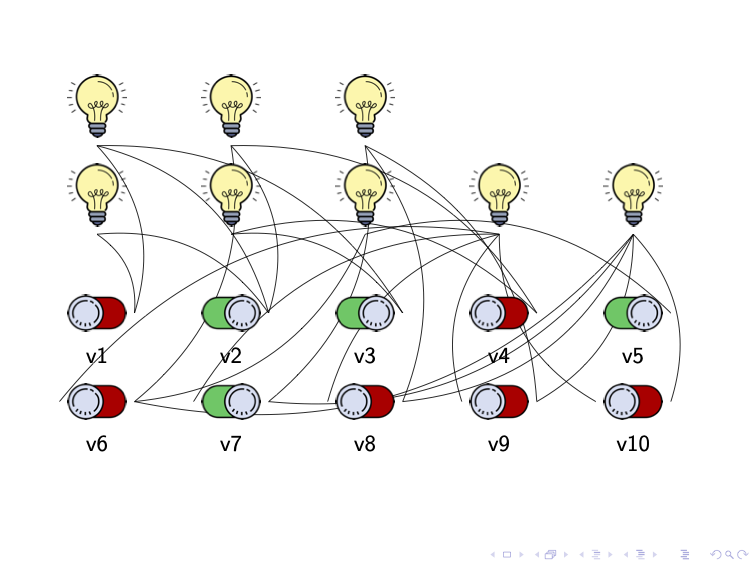
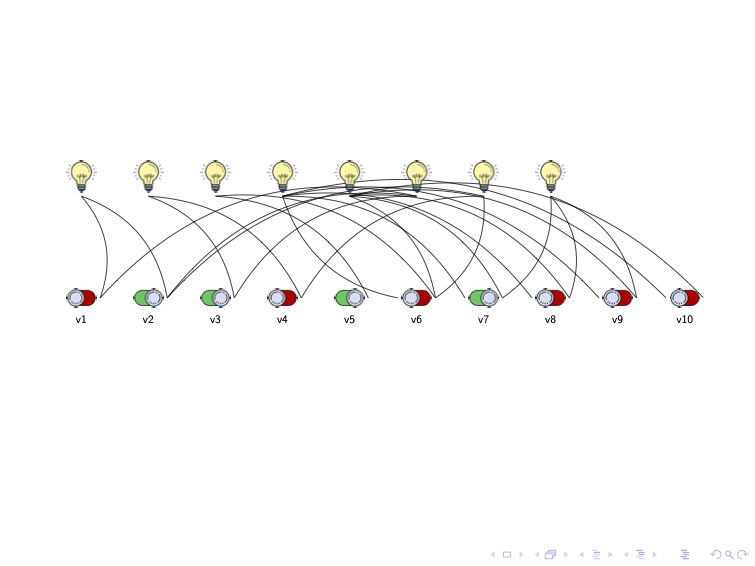
:pencil: updating doc about scaling

diff --git a/README.md b/README.md
@@ -28,7 +28,8 @@ Using [Sat4j](www.sat4j.org), it is possible to generate all satisfying assignme
 
 `java -Dall -Dprintallmodels -jar lib/org.sat4j.core.jar sat.cnf | ./cnf2lightswitch.py sat.cnf`
 
-The script allows to display problems with up to 10 variables and clauses.
+The script allows to display problems with up to 10 variables and clauses. It scales the
+elements accordingly.
 
 ![](test.png)
 
